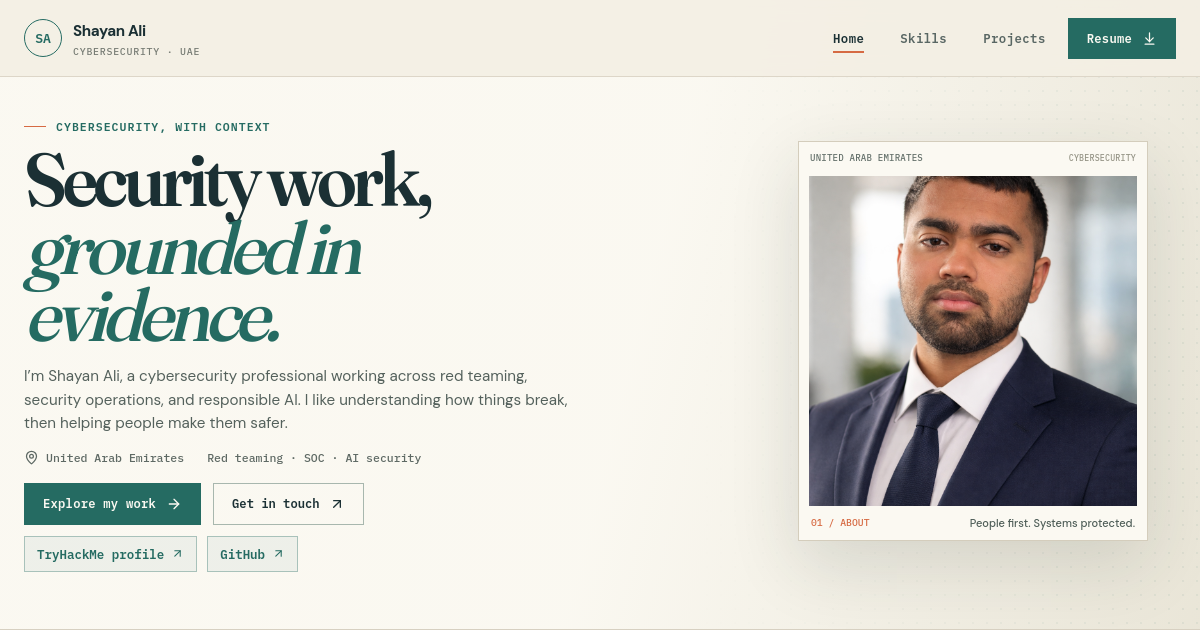
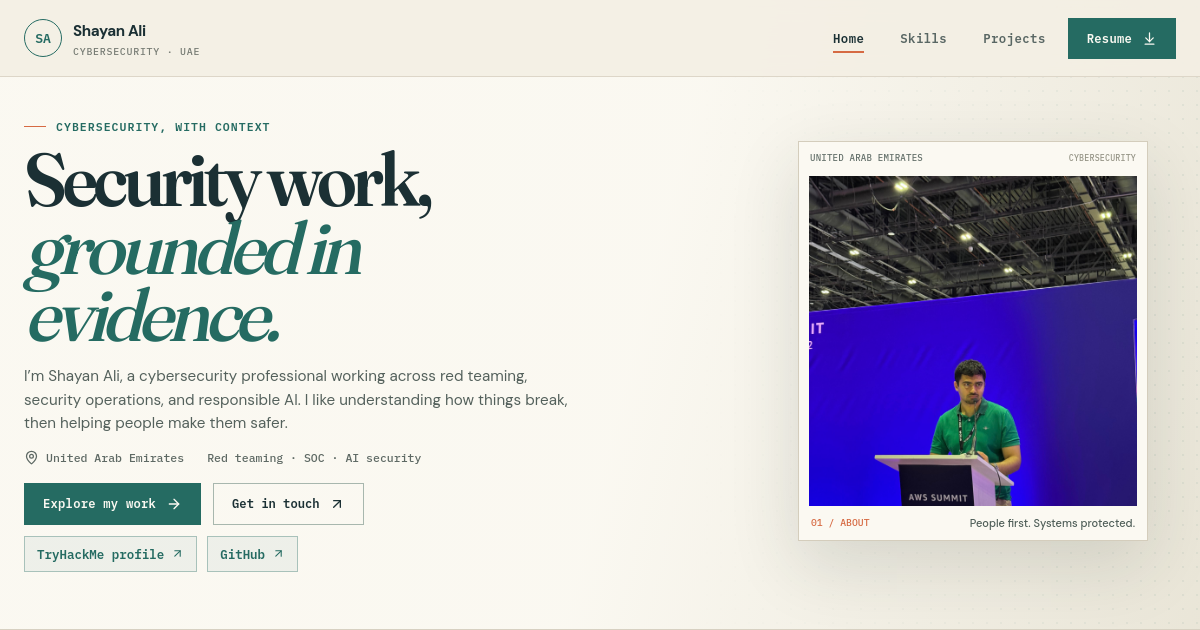
Update homepage assets and content
Replit-Commit-Author: Agent

Changed region(s): [[0.6475, 0.2714, 0.9558, 0.8143]]

diff --git a/client/src/pages/Home.tsx b/client/src/pages/Home.tsx
@@ -5,7 +5,7 @@ import { CyberPortrait } from "@/components/ui/CyberPortrait";
 import { Link } from "wouter";
 import { motion } from "framer-motion";
 import { ArrowDown, ArrowRight, ArrowUpRight, Award, BookOpen, MapPin, ShieldCheck } from "lucide-react";
-import profilePic from "@assets/image_1773977700491.png";
+import profilePic from "@assets/29f0b778-31a2-4b86-9cc9-c4a47f1f9642_1791376306496.jpeg";
 
 const experience = [
   {
